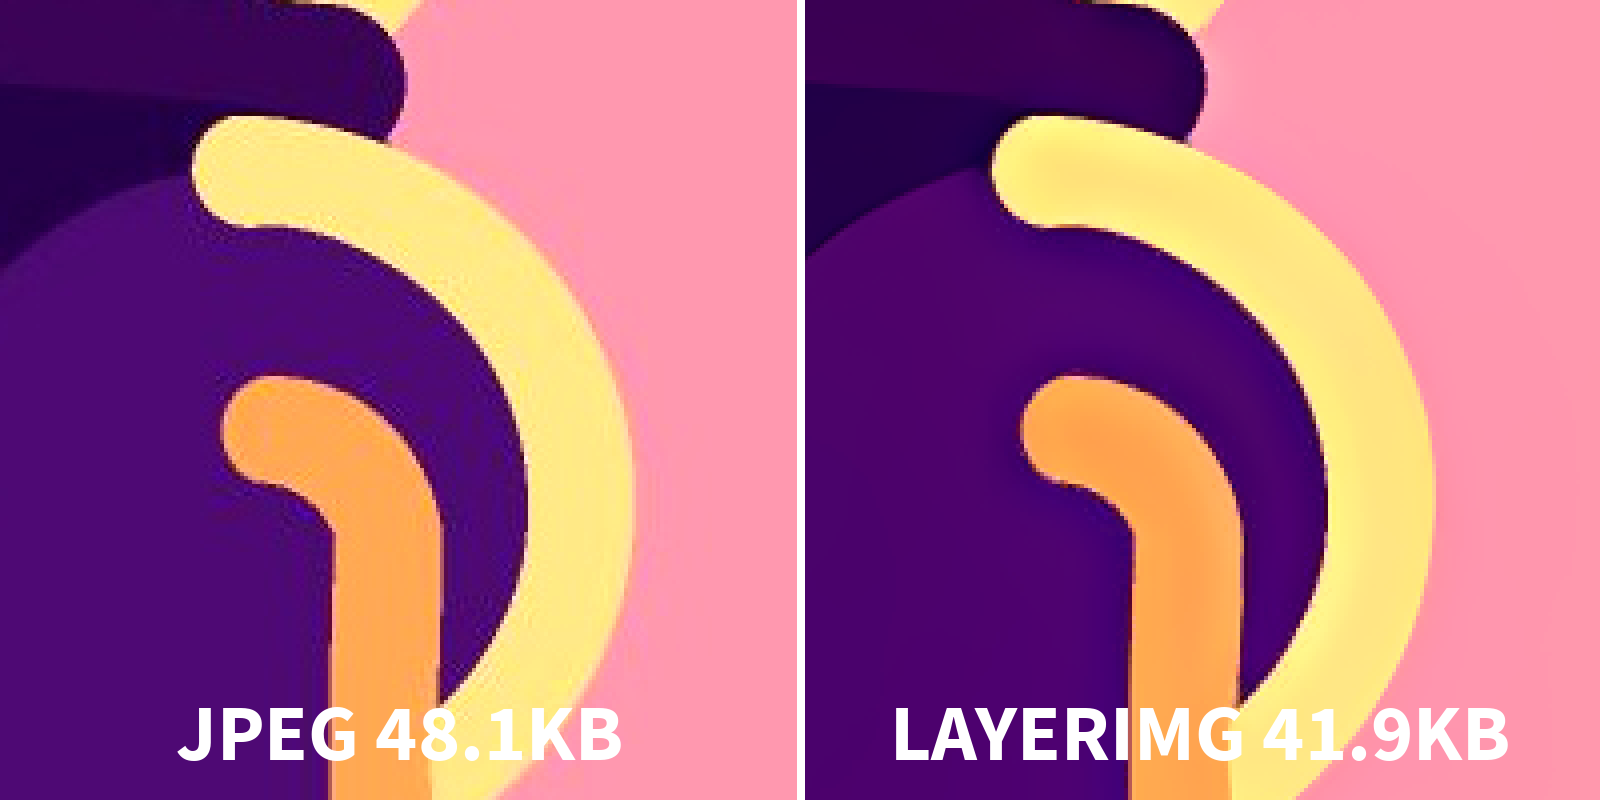
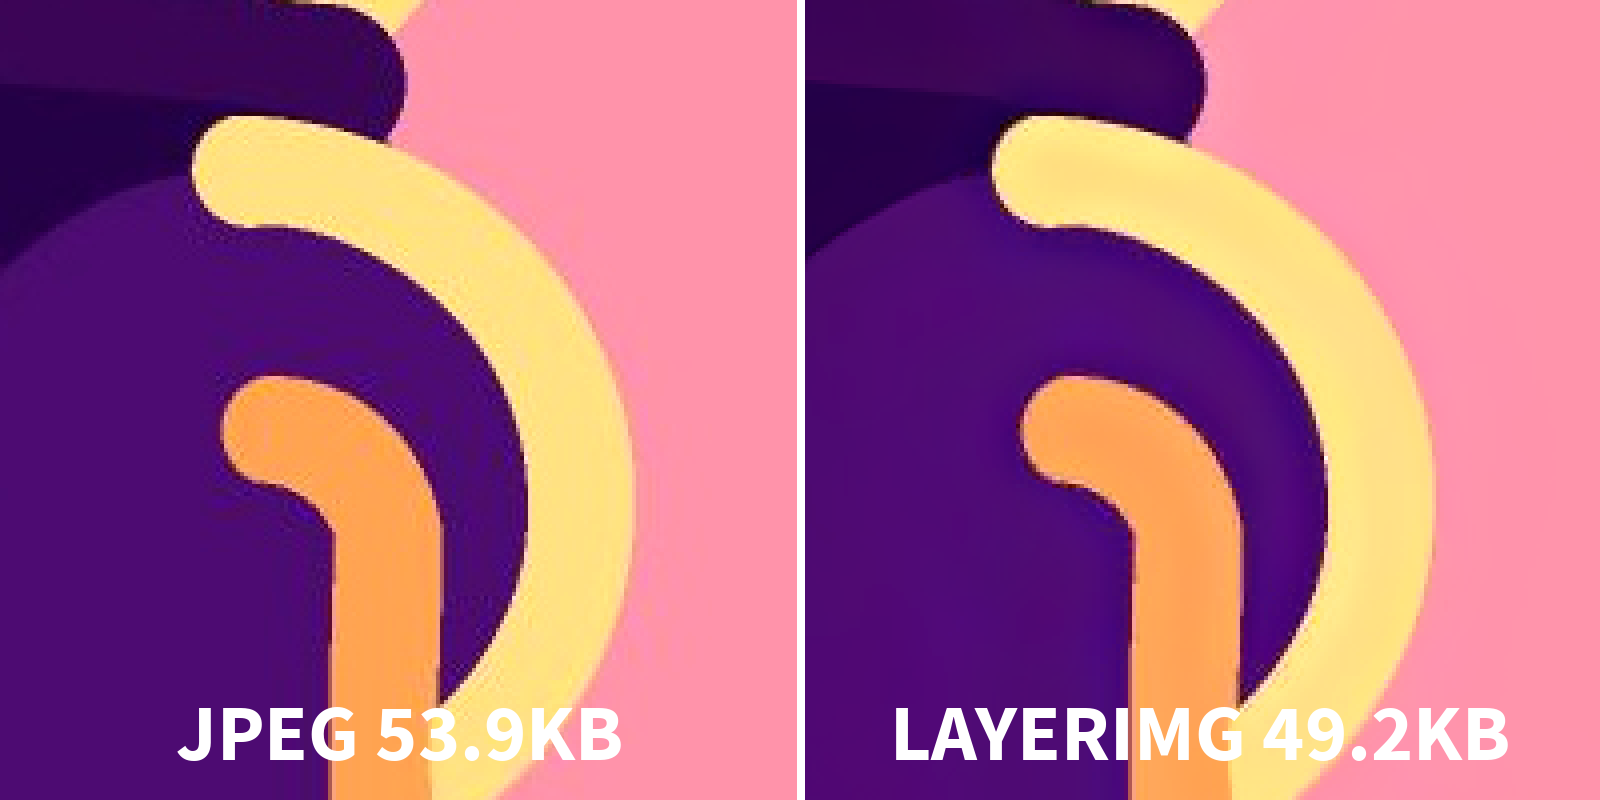
Enable color correction and use Lab colorspace to calculate difference

diff --git a/main.py b/main.py
@@ -1,4 +1,4 @@
-from PIL import Image, ImageOps, ImageChops, ImageFilter, ImageStat
+from PIL import Image, ImageOps, ImageChops, ImageFilter, ImageStat, ImageCms
 from math import *
 import zipfile
 import sys
@@ -43,22 +43,22 @@ def upscale(img, layer_idx):
     with Image.open(upscale_out) as og_upscale:
       upscale = og_upscale.copy()
     # Color Correction
-    #diff = [ Image.new('F', img.size) for _ in img.getbands() ]
-    #for xy in range2d(img.size):
-    #  base_pix = img.getpixel(xy)
-    #  topleft = [n*scale_ratio for n in xy]
-    #  botright = [n+scale_ratio for n in topleft]
-    #  actual_pix = [ 0 for _ in base_pix ]
-    #  for upxy in range2d(topleft, botright):
-    #    actual_pix = list(map(lambda a, b: a+b, actual_pix, upscale.getpixel(upxy)))
-    #  actual_pix = [ n/scale_ratio**2 for n in actual_pix ]
-    #  for idx in range(len(diff)):
-    #    diff[idx].putpixel(xy, base_pix[idx] - actual_pix[idx])
-    #diff = [ scale(diff_band, scale_ratio) for diff_band in diff ]
-    #for xy in range2d(upscale.size):
-    #  upscale.putpixel(xy, tuple(round(val + diff[i].getpixel(xy)) for i, val in enumerate(upscale.getpixel(xy))))
-    #diff = [ Image.eval(diff_band, lambda a: a+128).convert('L') for diff_band in diff ]
-    #debug_save(Image.merge('RGB', diff[:3]), f'diff{layer_idx}.png')
+    diff = [ Image.new('F', img.size) for _ in img.getbands() ]
+    for xy in range2d(img.size):
+      base_pix = img.getpixel(xy)
+      topleft = [n*scale_ratio for n in xy]
+      botright = [n+scale_ratio for n in topleft]
+      actual_pix = [ 0 for _ in base_pix ]
+      for upxy in range2d(topleft, botright):
+        actual_pix = list(map(lambda a, b: a+b, actual_pix, upscale.getpixel(upxy)))
+      actual_pix = [ n/scale_ratio**2 for n in actual_pix ]
+      for idx in range(len(diff)):
+        diff[idx].putpixel(xy, base_pix[idx] - actual_pix[idx])
+    diff = [ scale(diff_band, scale_ratio).convert('L').filter(ImageFilter.GaussianBlur(6)) for diff_band in diff ]
+    for xy in range2d(upscale.size):
+      upscale.putpixel(xy, tuple(round(val + diff[i].getpixel(xy)) for i, val in enumerate(upscale.getpixel(xy))))
+    diff = [ Image.eval(diff_band, lambda a: a+128) for diff_band in diff ]
+    debug_save(Image.merge('RGB', diff[:3]), f'diff{layer_idx}.png')
     return upscale
 
 def range2d(a, b=None):
@@ -72,6 +72,10 @@ def range2d(a, b=None):
         yield (x, y)
 
 ######## COMPRESS ########
+
+lab_profile = ImageCms.createProfile('LAB')
+srgb_profile = ImageCms.createProfile('sRGB')
+rgb2lab = ImageCms.buildTransform(srgb_profile, lab_profile, 'RGB', 'LAB')
 
 def compress(input_path, output_path):
   detail_level = args.detail_level * 16**args.quality/16
@@ -126,9 +130,20 @@ def compress(input_path, output_path):
       f.close()
     for layer_idx in range(layer_count):
       def calc_upscale_loss(og, downscaled):
-        diff = ImageChops.difference(og, upscale(downscaled, layer_idx))
-        edges = diff.filter(ImageFilter.FIND_EDGES).convert('L')
-        diff = diff.convert('L')
+        #diff = ImageChops.difference(og, upscale(downscaled, layer_idx))
+        #diff = ImageChops.difference(og.convert('YCbCr'), upscale(downscaled, layer_idx).convert('YCbCr'))
+        #edges = diff.filter(ImageFilter.FIND_EDGES).convert('L')
+        #diff = diff.convert('L')
+
+        def to_L(img):
+          result = Image.new('L', img.size)
+          for xy in range2d(img.size):
+            result.putpixel(xy, round(hypot(*img.getpixel(xy))))
+          return result
+        diff = ImageChops.difference(ImageCms.applyTransform(og, rgb2lab), ImageCms.applyTransform(upscale(downscaled, layer_idx), rgb2lab))
+        edges = to_L(diff.filter(ImageFilter.FIND_EDGES))
+        diff = to_L(diff)
+
         diff_mean = 0
         edges_mean = 0
         for xy in range2d(edges.size):
@@ -228,9 +243,9 @@ subparsers = parser.add_subparsers(title='actions', description="Specifies an ac
 
 
 compress_args = argparse.ArgumentParser(add_help=False)
-compress_args.add_argument('--detail-level', '-d', type=float, default=1, help="The level of detail in the image archive. Must be positive, default is 1")
-compress_args.add_argument('--quality', '-q', type=float, default=0.7, help="The compression quality (from 0 to 1) of the image archive")
-compress_args.add_argument('--quality-gain', '--gain', type=float, default=3, help="The compression quality gain when we move to the larger layers. Must be positive, default is 2")
+compress_args.add_argument('--detail-level', '-d', type=float, default=0.8, help="The level of detail in the image archive. Must be positive, default is 1")
+compress_args.add_argument('--quality', '-q', type=float, default=0.8, help="The compression quality (from 0 to 1) of the image archive")
+compress_args.add_argument('--quality-gain', '--gain', type=float, default=0.8, help="The compression quality gain when we move to the larger layers. Must be positive, default is 2")
 
 simple_io = argparse.ArgumentParser(add_help=False)
 simple_io.add_argument('paths', metavar='input', action='append', help="Path to input file")

diff --git a/demo.py b/demo.py
@@ -44,11 +44,11 @@ def make_comparison(root, pos, path, color=(255, 255, 255), size=(100, 100), sca
 demo = [ None, None, None, None ]
 main.args = Args(True, 0.8, 0.6, 0.6, False)
 demo[0] = make_comparison('vector-noise', (350, 150), 'demo/circles.png', size=(200, 200), scale=4)
-main.args = Args(True, 0.8, 0.8, 0.8, False)
+main.args = Args(True, 0.8, 0.8, 0.6, False)
 demo[1] = make_comparison('kurzgesagt', (550, 40), 'demo/letter.png')
-main.args = Args(True, 0.8, 0.7, 0.4, False)
+main.args = Args(True, 0.8, 0.7, 0.5, False)
 demo[2] = make_comparison('landscape', (680, 80), 'demo/mountain.png', (0, 0, 0))
-main.args = Args(True, 0.8, 0.8, 1, False)
+main.args = Args(True, 0.8, 0.8, 0.6, False)
 demo[3] = make_comparison('vector', (70, 550), 'demo/sheep.png')
 
 spacing = 100
